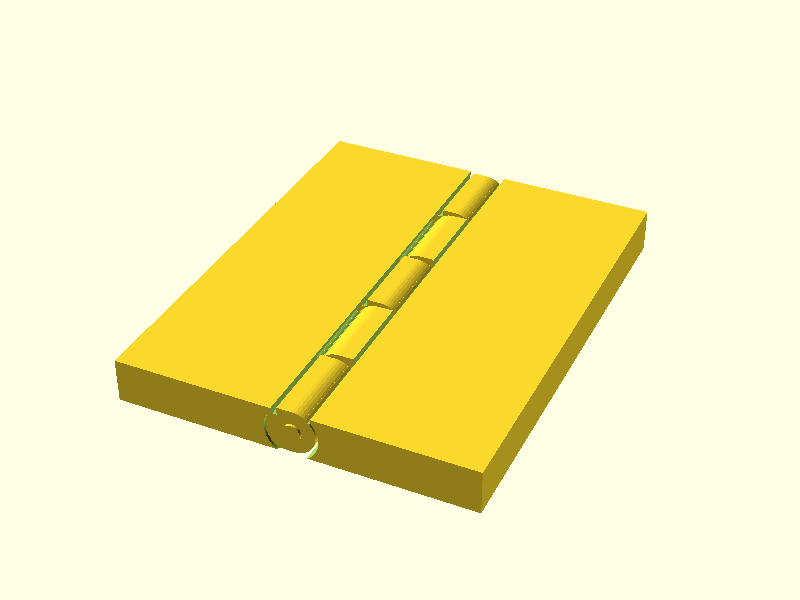
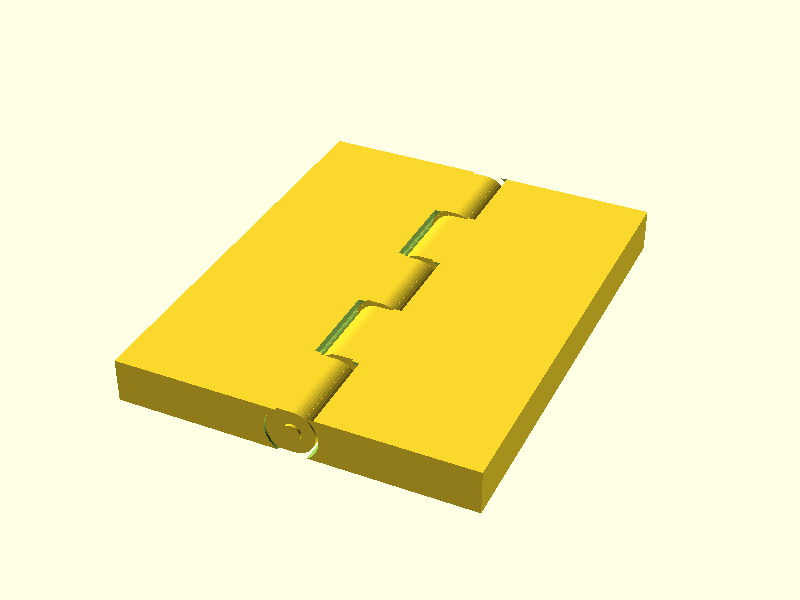
fix: back_relief notches cut per segment into own lip, full knuckle width
Two test-print corrections: notch only the leaf's own scallop lip
beside each opposing-knuckle segment (previous cut chewed the opposing
knuckle flanks), and auto width now spans the knuckle's full overlap
over the lip (knuckle_r - lip edge) instead of knuckle_od/20, which
left the outer part of the drag zone unrelieved.

diff --git a/README.md b/README.md
@@ -257,10 +257,11 @@ Print notes (0.4mm nozzle, 0.16mm layers, 3 walls, 3% infill reference profile):
 - First-layer squish narrows the scallop gap at bed level — if leaves fuse along the bottom
   of the seam, raise `scallop_clearance` or reduce first-layer flow.
 - If the printed hinge binds before 90° (test-print confirmed at this scale), the bottom
-  edge of the opposing knuckles is dragging where it lands just outside the seam lip. Set
-  `back_relief` (micro demo uses 0.35 deep × `back_relief_width` 0.2 wide) to cut narrow
-  notches into each leaf's top face just outside the seam lip on both sides; the swing then
-  clears through the full range and the rest of the knuckle keeps its full height.
+  edge of each knuckle is dragging on the opposing leaf's seam lip. Set `back_relief`
+  (micro demo uses 0.35 deep, auto width) to cut a narrow notch into each leaf's lip beside
+  every opposing-knuckle segment — each leaf's own material only, alternating sides section
+  by section, spanning the knuckle's full overlap over the lip; the swing then clears
+  through the full range and the knuckles keep their full height.
 
 | Parameter | Default | Meaning |
 |---|---|---|
@@ -272,8 +273,8 @@ Print notes (0.4mm nozzle, 0.16mm layers, 3 walls, 3% infill reference profile):
 | `pin_clearance` | 0.25 | Radial clearance between pin and knuckle bore |
 | `knuckle_gap` | 0.3 | Axial clearance between adjacent knuckles |
 | `scallop_clearance` | 0.3 | Radial clearance between a knuckle and the opposing leaf's scallop |
-| `back_relief` | 0 | Depth of narrow notches cut into each leaf's top face just outside the seam lip on both sides, where the opposing knuckles' bottom edge lands; frees the swing when the print binds |
-| `back_relief_width` | 0 | Width of each notch running outward from the seam lip; the rest of the knuckle keeps full height. 0 = auto (`knuckle_od / 20`) |
+| `back_relief` | 0 | Depth of a narrow notch cut into each leaf's scallop lip beside every opposing-knuckle segment, where that knuckle's bottom edge lands; cut into the leaf's own material only, frees the swing when the print binds |
+| `back_relief_width` | 0 | Width of each notch running outward from the seam lip; 0 = auto, spans the knuckle's full overlap over the lip (`knuckle_od/2 - sqrt(scallop_r² - (knuckle_od/2)²)`) |
 | `integral_pin` | true | Pin fused to leaf 1's knuckles (print-in-place, no assembly); `parts="both"` only, lone leaves are always bored |
 | `print_pin` | false | With `integral_pin=false`: emit a loose pin beside the hinge |
 | `cap_thickness` | 1.5 | `parts="caps"`: end cap flange thickness |